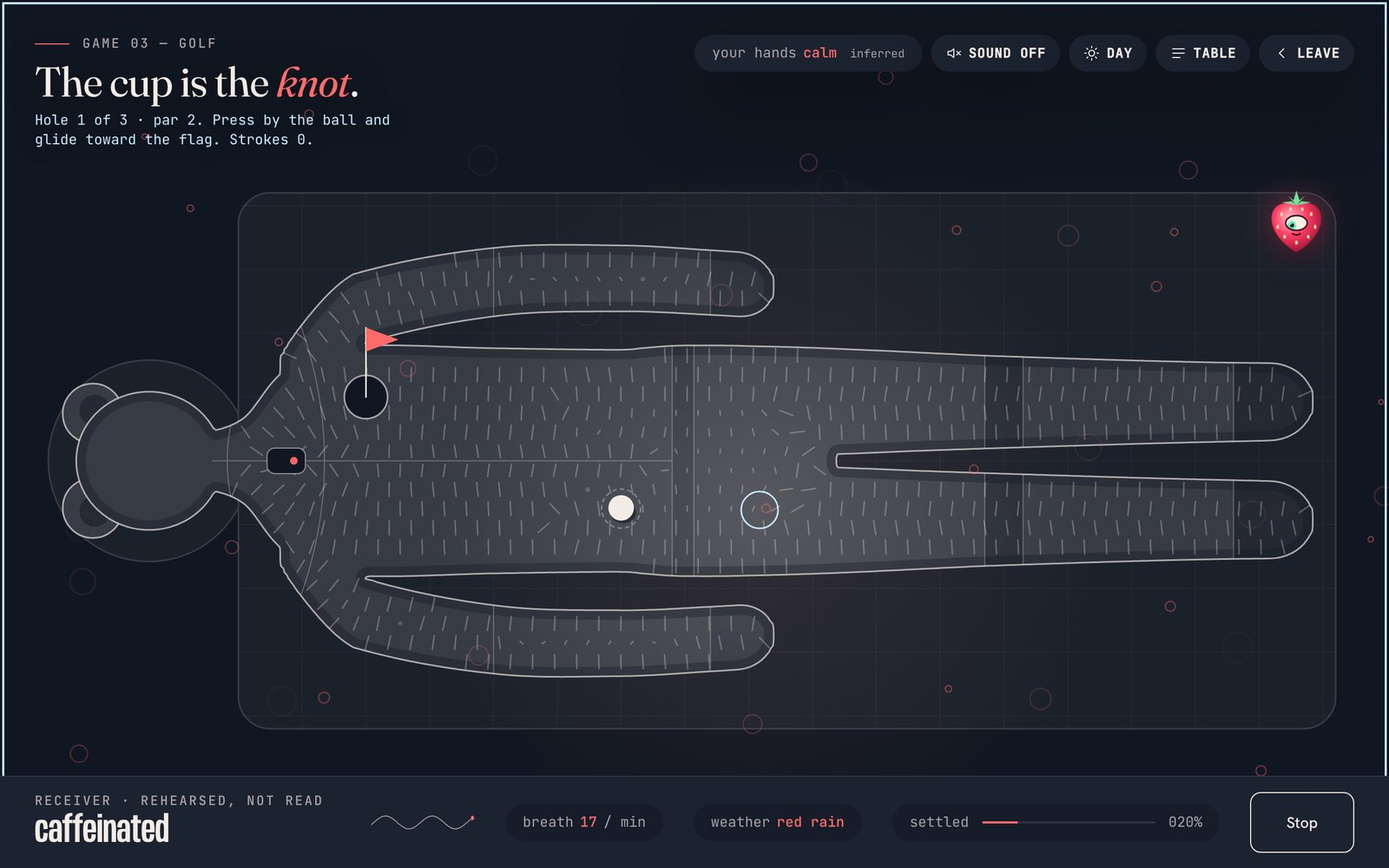
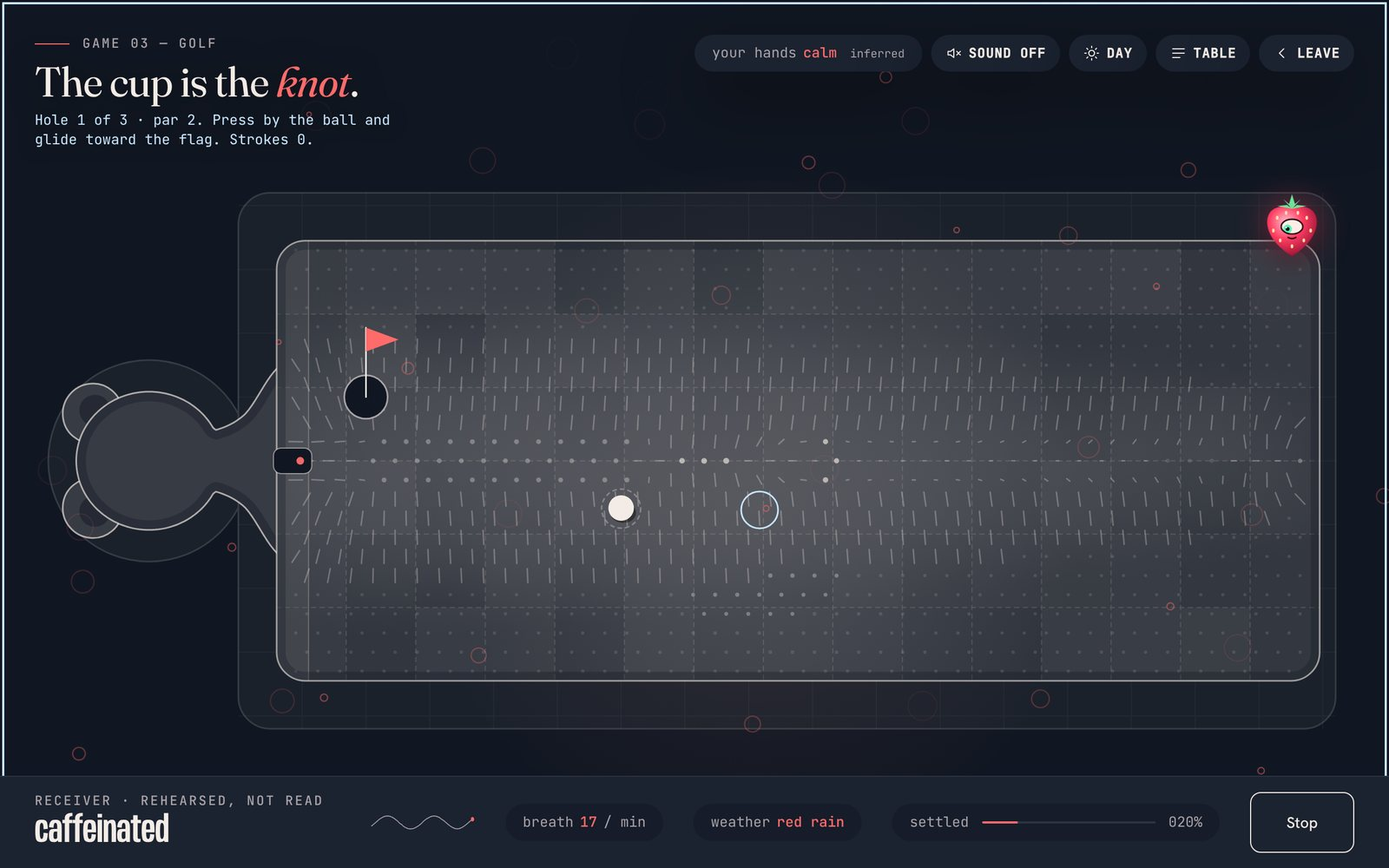
Tuck the receiver in: a hood above a quilt, and no body drawn
Five figures drew the same reaction (funky, creepy, weird, odd). What they
shared was a whole figure lying face down with an outline to get wrong. A
sixth, a tapered sleeping bag with a zip, read as a body bag and was binned
before it shipped.

The page now draws what a massage table really looks like: someone tucked in.

- All that shows of the person is a hood (with the ears that carry the
  state) and the tops of the shoulders above the hem.
- A rectangular patchwork quilt covers the rest, and is the board the games
  are played on.
- Where the person lifts it the cloth is lighter and the cells brighter. The
  rise has no edge and swells with the breath.
- The shape the games need underneath is one padded tube with a dip where
  two legs lie, which is Golf's fairway. It is never stroked.
- Cells cover the whole quilt; in Golf they lie along the slope.

Zones, golf holes, the knee limit and the Call stop move with the new shape.
All five games play through; Golf holds par 8.

Claude-Session: https://claude.ai/code/session_013Z7RfDs9vvpu4Hy9Jgp1ro

diff --git a/web/index.html b/web/index.html
@@ -242,7 +242,7 @@ $('#legend').innerHTML = SETS.map(s => `<li class="df-tag${TONE[s.id]}" data-set
 /* ---------- the receiver as a suit: a padded garment with haptic cells, never a body ---------- */
 // The page draws the thing this project is about, the suit, and no skin: flat fabric, seams, and a grid of cells.
 // body space: x runs head (-) to feet (+), y is across. Prone, so their left is +y.
-// Every part is a padded tube along x: a centre line, a half-width and a height, each a smooth curve through a few points.
+// The cover is one padded tube along x: a half-width and a height, each a smooth curve through a few points. No limbs are drawn.
 function curve(pts) {
   const n = pts.length;
   return x => {
@@ -260,22 +260,17 @@ const cap = (f, a, b, ra, rb) => x => { // a tube with round ends, like a sleeve
   if (x > b - rb) { const u = (x - b + rb) / rb; w *= Math.sqrt(1 - u * u); }
   return w;
 };
-const TORSO = { c: flat(0), w: cap(curve([[-.9, .05], [-.74, .052], [-.69, .075], [-.645, .135], [-.6, .176], [-.5, .192], [-.3, .188], [-.12, .186], [.02, .186], [.12, .186], [.3, .186]]), -.8, .2, .01, .1),
-  h: curve([[-.9, .36], [-.7, .44], [-.62, .62], [-.5, .72], [-.3, .7], [-.1, .66], [.05, .66], [.3, .64]]) };
-const LEG = { c: curve([[-.4, .093], [-.1, .093], [.0, .093], [.3, .093], [.5, .092], [.84, .092], [1, .093]]), w: cap(curve([[-.4, .093], [-.1, .093], [.1, .093], [.5, .078], [.9, .068], [1.1, .068]]), -.22, .985, .22, .068),
-  h: curve([[-.4, .64], [-.1, .64], [.2, .62], [.5, .52], [.8, .42], [1.1, .36]]) };
-const ARM = { c: curve([[-.75, .12], [-.63, .15], [-.52, .236], [-.3, .28], [-.1, .286], [.03, .28], [.2, .27]]), w: cap(curve([[-.8, .06], [-.6, .062], [-.3, .059], [0, .057], [.3, .057]]), -.635, .14, .1, .057),
-  h: curve([[-.8, .5], [-.5, .5], [-.2, .42], [.3, .32]]) };
+const BAG = { c: flat(0), w: cap(curve([[-.9, .05], [-.74, .052], [-.69, .08], [-.645, .15], [-.6, .19], [-.5, .206], [-.3, .2], [-.1, .192], [.1, .186], [.3, .172], [.5, .155], [.7, .136], [.9, .118], [1.1, .118]]), -.8, .985, .01, .11),
+  h: curve([[-.9, .36], [-.7, .44], [-.62, .6], [-.5, .72], [-.3, .7], [-.1, .66], [.2, .62], [.5, .54], [.8, .46], [1.1, .42]]) };
 function tube(p, x, y, sgn) { const w = p.w(x); if (w <= 0) return 0; const u = (y - sgn * p.c(x)) / w; return u <= -1 || u >= 1 ? 0 : p.h(x) * Math.pow(1 - u * u, 1.15); }
 function capH(x, y) {
   let q = 0, v;
   const hx = (x + .84) / .118, hy = y / .112, hu = hx * hx + hy * hy; if (hu < 1) { v = .95 * (1 - hu); q += v * v * v * v; } // the hood, face in the cradle
-  v = tube(TORSO, x, y, 0); q += v * v * v * v;
-  v = .5 * (1 - ((x - .2) * (x - .2) + y * y) / .0016); if (v > 0) q += v * v * v * v; // a gusset, so the inseam ends round
-  for (const sgn of [-1, 1]) { v = tube(LEG, x, y, sgn); q += v * v * v * v; v = tube(ARM, x, y, sgn); q += v * v * v * v; }
+  v = tube(BAG, x, y, 0); q += v * v * v * v;
   if (q <= 0) return 0;
-  let h = Math.sqrt(Math.sqrt(q)); // panels meet like padding
+  let h = Math.sqrt(Math.sqrt(q)); // hood and cover meet like padding
   if (x > -.68 && x < -.02) h -= .06 * Math.min(1, h * 3) * Math.exp(-(y * y) / .0005) * clamp((x + .68) / .06, 0, 1) * clamp((-.02 - x) / .06, 0, 1); // the zip runs in a channel
+  if (x > .08) h -= .07 * Math.min(1, h * 3) * Math.exp(-(y * y) / .0016) * clamp((x - .08) / .12, 0, 1) * clamp((.94 - x) / .1, 0, 1); // the cover dips where two legs lie under it: Golf's fairway
   return h > 0 ? h : 0;
 }
 const X0 = -1, X1 = 1, Y0 = -.48, Y1 = .48;
@@ -304,23 +299,27 @@ const SUIT = (() => { // the suit's edge, traced once from the field into closed
   }
   return path;
 })();
-// the haptic cells, on a hex grid that straddles the zip: [x, y, how much breath moves it, downhill x, downhill y]
+// The quilt: what is on the table is a person tucked in, the way a massage table really looks. Their outline is never drawn.
+const QX0 = -.64, QX1 = .995, QY = .345;
+// its haptic cells, on a hex grid over the whole quilt: [x, y, how far the person under it lifts it, how much breath moves it, downhill x, downhill y]
 const CELLS = [];
-for (let r = 0, y = -.465; y < Y1; y += .03, r++) for (let x = X0 + (r % 2 ? .0173 : 0); x < X1; x += .0346) {
-  if (capH(x, y) < .2 || hyp(x + .84, y) < .135) continue; // none on the rim, none in the hood
-  const [gx, gy] = grad(x, y); CELLS.push([x, y, Math.exp(-(((x + .3) / .28) ** 2)) * Math.exp(-((y / .22) ** 2)), -gx, -gy]);
+for (let r = 0, y = -.33; y < QY - .01; y += .03, r++) for (let x = QX0 + .03 + (r % 2 ? .0173 : 0); x < QX1 - .015; x += .0346) {
+  const h = capH(x, y), [gx, gy] = h > .02 ? grad(x, y) : [0, 0];
+  CELLS.push([x, y, clamp(h / .7, 0, 1), Math.exp(-(((x + .3) / .28) ** 2)) * Math.exp(-((y / .22) ** 2)), -gx, -gy]);
 }
+// its patches: one fixed tone each, a little lighter or darker, like a quilt sewn from the same cloth twice dyed
+const PATCH = []; { const nx = 15, ny = 6, w = (QX1 - QX0) / nx, hgt = 2 * QY / ny; let k = 7; for (let i = 0; i < nx; i++) for (let j = 0; j < ny; j++) { k = (k * 1103515245 + 12345) & 0x7fffffff; PATCH.push([QX0 + i * w, -QY + j * hgt, w, hgt, (k / 0x7fffffff) * 2 - 1]); } }
 
 /* ---------- zones on a back ---------- */
 const Z = [];
-for (const [part, x, y, r] of [['shoulder', -.59, .125, .066], ['blade', -.44, .095, .068], ['mid back', -.27, .092, .068], ['low back', -.11, .082, .066], ['hip', .07, .088, .07], ['hamstring', .3, .092, .062], ['calf', .64, .092, .056], ['sole', .9, .092, .05]]) {
+for (const [part, x, y, r] of [['shoulder', -.59, .125, .066], ['blade', -.44, .095, .068], ['mid back', -.27, .092, .068], ['low back', -.11, .082, .066], ['hip', .07, .088, .07], ['hamstring', .3, .086, .062], ['calf', .64, .076, .052], ['sole', .9, .06, .044]]) {
   Z.push({ side: 'left', part, x, y, r }); Z.push({ side: 'right', part, x, y: -y, r });
 }
 function noGo(x, y) {
   if (x > -.66 && x < 0 && Math.abs(y) < .026) return 'spine';
   if (x > -.76 && x <= -.66 && Math.abs(y) < .07) return 'neck';
   if (hyp(x + .84, y) < .12) return 'head';
-  if (Math.abs(x - .5) < .03 && Math.abs(Math.abs(y) - .092) < .075) return 'knee';
+  if (Math.abs(x - .5) < .03 && Math.abs(y) < .16) return 'knee';
   return '';
 }
 
@@ -864,7 +863,7 @@ function drawHog(h) {
 }
 
 /* ---------- 03 golf ---------- */
-const HOLES = [{ tee: [-.1, .075], cup: [-.5, -.1], par: 2 }, { tee: [-.5, .1], cup: [.64, .092], par: 3 }, { tee: [.7, -.092], cup: [.3, .092], par: 3 }];
+const HOLES = [{ tee: [-.1, .075], cup: [-.5, -.1], par: 2 }, { tee: [-.5, .1], cup: [.64, .076], par: 3 }, { tee: [.7, -.076], cup: [.3, .086], par: 3 }];
 function startGolf() { G = { kind: 'golf', h: 0, total: 0, par: HOLES.reduce((a, h) => a + h.par, 0), strokes: 0, aim: null, wait: 0, glide: [], rushed: 0 }; tee(); }
 function tee() { const h = HOLES[G.h]; G.ball = { x: h.tee[0], y: h.tee[1], vx: 0, vy: 0, moving: false, sunk: 0 }; G.strokes = 0; G.lip = false; }
 function strike() {
@@ -949,7 +948,7 @@ function drawCall() {
 
 /* ---------- lobby: the path of the adventure, drawn on the back ---------- */
 // where each game sits: the first three are the path Begin plays; Call is at the hand, Flip at the head
-const STOPS = [{ g: 'moles', x: -.5, y: -.095, wide: 'up', tall: 'right' }, { g: 'hogs', x: -.02, y: .08, wide: 'down', tall: 'left' }, { g: 'golf', x: .62, y: .092, wide: 'down', tall: 'left' }, { g: 'call', x: .075, y: -.276, wide: 'up', tall: 'right' }, { g: 'flip', x: -.84, y: 0, wide: 'up', tall: 'right' }];
+const STOPS = [{ g: 'moles', x: -.5, y: -.095, wide: 'up', tall: 'right' }, { g: 'hogs', x: -.02, y: .08, wide: 'down', tall: 'left' }, { g: 'golf', x: .62, y: .076, wide: 'down', tall: 'left' }, { g: 'call', x: .3, y: -.086, wide: 'up', tall: 'right' }, { g: 'flip', x: -.84, y: 0, wide: 'up', tall: 'right' }];
 function pathAt(u) { // 0..1 along the three stops
   const k = clamp(u, 0, .9999) * 2, i = Math.floor(k), t = k - i, a = STOPS[i], b = STOPS[i + 1], e = t * t * (3 - 2 * t);
   return [lerp(a.x, b.x, t), lerp(a.y, b.y, e)];
@@ -1036,7 +1035,7 @@ function update(dt) {
 function bodyXf() { tall ? ctx.setTransform(0, s * dpr, -s * dpr, 0, cx * dpr, cy * dpr) : ctx.setTransform(s * dpr, 0, 0, s * dpr, cx * dpr, cy * dpr); }
 function drawSuit() {
   bodyXf(); const px = 1 / s, room = clamp(.3 + .82 * ROOM, .3, 1), [lx, ly] = toB(L.x, L.y);
-  // the hood has ears, and they are the receiver's state on the figure itself: up when braced, flopped out and flat when settled
+  // the hood has ears, and they are the receiver's state on the page: up when braced, flopped when settled
   const ease = noReading() ? .45 : clamp(1 - S.read, 0, 1), flop = .6 + .5 * ease, twitch = still ? 0 : Math.max(0, Math.sin(S.t * .9) - .985) * 9;
   for (const sy of [-1, 1]) {
     const a = flop - twitch * .25, ex = -.84 - Math.cos(a) * .118, ey = sy * Math.sin(a) * .112;
@@ -1045,38 +1044,39 @@ function drawSuit() {
     ctx.fillStyle = C.fab2; ctx.beginPath(); ctx.ellipse(.006 + .012 * ease, 0, .026 - .008 * ease, .024 + .004 * ease, 0, 0, TAU); ctx.fill();
     ctx.restore();
   }
-  // cloth: one flat neutral, lighter where the lamp reaches. Flat on purpose: a garment drawing, with no modelling and no skin tone.
-  ctx.fillStyle = C.fab0; ctx.fill(SUIT); ctx.save(); ctx.clip(SUIT);
-  ctx.fillStyle = C.fab2; ctx.fillRect(-.02, -.2, .034, .4); // stretch panels, colour-blocked like a wetsuit: waistband, knee gussets, gloves, boots
-  for (const sy of [-1, 1]) { ctx.fillRect(.47, sy * .005, .06, sy * .19); ctx.fillRect(.86, sy * .005, .15, sy * .19); const c = sy * ARM.c(.04); ctx.fillRect(.04, c - .08, .13, .16); }
-  const glow = ctx.createRadialGradient(lx, ly, 0, lx, ly, .5); glow.addColorStop(0, hexA(C.fab1, .85 * room)); glow.addColorStop(1, hexA(C.fab1, 0)); ctx.fillStyle = glow; ctx.fillRect(X0, Y0, X1 - X0, Y1 - Y0);
-  ctx.strokeStyle = hexA(C.void, .34); ctx.lineWidth = .03; ctx.lineJoin = 'round'; ctx.stroke(SUIT); // a soft rim: padding, not a cut-out
-  // seams: where the panels meet. Each no-go place is a seam, so the gun's limits are part of the garment.
-  ctx.strokeStyle = hexA(C.ink, .3 * room); ctx.lineWidth = px; ctx.lineCap = 'round'; ctx.beginPath();
-  ctx.moveTo(-.74, 0); ctx.lineTo(-.02, 0); // the zip
-  ctx.moveTo(-.63, -.28); ctx.quadraticCurveTo(-.5, 0, -.63, .28); // yoke and shoulder seams
-  ctx.moveTo(-.7, -.1); ctx.quadraticCurveTo(-.735, 0, -.7, .1); // collar
-  for (const x of [-.02, .014]) { ctx.moveTo(x, -.2); ctx.lineTo(x, .2); } // waistband
-  for (const sy of [-1, 1]) {
-    for (const x of [.47, .53, .86]) { ctx.moveTo(x, sy * .005); ctx.lineTo(x, sy * .195); } // knee gusset, ankle cuff
-    for (const x of [-.3, .04]) { const c = sy * ARM.c(x); ctx.moveTo(x, c - .08); ctx.lineTo(x, c + .08); } // elbow, wrist cuff
-  }
-  ctx.stroke();
-  // cells: dim at rest, brighter under the lamp, swelling with the breath, ringing where the suit hums
-  const golf = G && G.kind === 'golf', br = still ? 0 : Math.sin(S.breath) * (.03 + .05 * (1 - S.read)), dim = new Path2D(), mid = new Path2D(), lit = new Path2D(), hum = new Path2D(), grain = new Path2D();
-  for (const [x, y, lg, sx, sy] of CELLS) {
-    const dl = (x - lx) * (x - lx) + (y - ly) * (y - ly), glow = dl < .2 ? Math.exp(-dl / .03) * room : 0; let r = .0034 * (1 + 3.2 * br * lg) + .0012 * glow, ring = 0;
-    for (const b of bumps) { const d = hyp(x - b.x, y - b.y); if (d < b.r) { const w = 1 - (d / b.r) * (d / b.r); ring = Math.max(ring, w * w * (b.a / .16) * (still ? .6 : .5 + .5 * Math.sin(46 * d - 13 * S.t))); } }
+  // all that shows of the person: a hood and the tops of the shoulders, above the quilt's hem
+  ctx.save(); ctx.beginPath(); ctx.rect(X0, Y0, QX0 + .03 - X0, Y1 - Y0); ctx.clip();
+  ctx.fillStyle = C.fab0; ctx.fill(SUIT); ctx.save(); ctx.clip(SUIT); ctx.strokeStyle = hexA(C.void, .34); ctx.lineWidth = .03; ctx.lineJoin = 'round'; ctx.stroke(SUIT); ctx.restore();
+  ctx.strokeStyle = hexA(C.ink, .7 * room); ctx.lineWidth = 1.5 * px; ctx.stroke(SUIT); ctx.restore();
+  // the quilt: a board for the games. One neutral cloth in patches, stitched.
+  const quilt = new Path2D(); if (quilt.roundRect) quilt.roundRect(QX0, -QY, QX1 - QX0, 2 * QY, .045); else quilt.rect(QX0, -QY, QX1 - QX0, 2 * QY);
+  ctx.fillStyle = C.fab0; ctx.fill(quilt); ctx.save(); ctx.clip(quilt);
+  for (const [x, y, w, h, t] of PATCH) { ctx.fillStyle = t > 0 ? hexA(C.fab1, .16 * t) : hexA(C.void, -.2 * t); ctx.fillRect(x, y, w, h); }
+  // where the person lifts it the cloth is lighter. A soft rise with no edge: there is no outline to get wrong.
+  const br = still ? 0 : Math.sin(S.breath) * (.03 + .05 * (1 - S.read));
+  for (let x = -.56; x < .93; x += .105) { const w = BAG.w(x) * 1.35, lg = Math.exp(-(((x + .3) / .28) ** 2)), a = .3 * room * (BAG.h(x) / .72) * (1 + 4 * br * lg), g = ctx.createRadialGradient(x, 0, 0, x, 0, w); g.addColorStop(0, hexA(C.fab1, a)); g.addColorStop(.55, hexA(C.fab1, a * .55)); g.addColorStop(1, hexA(C.fab1, 0)); ctx.fillStyle = g; ctx.fillRect(x - w, -w, 2 * w, 2 * w); }
+  const glow = ctx.createRadialGradient(lx, ly, 0, lx, ly, .5); glow.addColorStop(0, hexA(C.fab1, .7 * room)); glow.addColorStop(1, hexA(C.fab1, 0)); ctx.fillStyle = glow; ctx.fillRect(X0, Y0, X1 - X0, Y1 - Y0);
+  // stitching between the patches, and the hem folded back at the top
+  ctx.strokeStyle = hexA(C.ink, .16 * room); ctx.lineWidth = px; ctx.setLineDash([4 * px, 4 * px]); ctx.beginPath();
+  for (let i = 1; i < 15; i++) { const x = QX0 + i * (QX1 - QX0) / 15; ctx.moveTo(x, -QY); ctx.lineTo(x, QY); } for (let j = 1; j < 6; j++) { const y = -QY + j * 2 * QY / 6; ctx.moveTo(QX0, y); ctx.lineTo(QX1, y); }
+  ctx.stroke(); ctx.setLineDash([]);
+  ctx.fillStyle = hexA(C.fab1, .3 * room); ctx.fillRect(QX0, -QY, .05, 2 * QY); ctx.strokeStyle = hexA(C.ink, .28 * room); ctx.beginPath(); ctx.moveTo(QX0 + .05, -QY); ctx.lineTo(QX0 + .05, QY); ctx.stroke();
+  // cells: brighter where the person is, under the lamp, and with the breath; ringing where the quilt hums
+  const golf = G && G.kind === 'golf', dim = new Path2D(), mid = new Path2D(), lit = new Path2D(), hum = new Path2D(), grain = new Path2D();
+  for (const [x, y, up, lg, sx, sy] of CELLS) {
+    const dl = (x - lx) * (x - lx) + (y - ly) * (y - ly), lamp = dl < .2 ? Math.exp(-dl / .03) * room : 0, v = .5 * up + lamp; let r = .0026 + .0012 * up * (1 + 3.2 * br * lg) + .0012 * lamp, ring = 0;
+    if (up > 0) for (const b of bumps) { const d = hyp(x - b.x, y - b.y); if (d < b.r) { const w = 1 - (d / b.r) * (d / b.r); ring = Math.max(ring, w * w * (b.a / .16) * (still ? .6 : .5 + .5 * Math.sin(46 * d - 13 * S.t))); } }
     if (golf) { const m = hyp(sx, sy), len = Math.min(.011, m * .008); if (len > .002) { grain.moveTo(x - sx / m * len, y - sy / m * len); grain.lineTo(x + sx / m * len, y + sy / m * len); continue; } } // on the green the cells lie along the slope, like mown grass
-    const to = ring > .18 ? hum : glow > .55 ? lit : glow > .16 ? mid : dim; r += .0034 * ring; to.moveTo(x + r, y); to.arc(x, y, r, 0, TAU);
+    const to = ring > .18 ? hum : v > .75 ? lit : v > .3 ? mid : dim; r += .0034 * ring; to.moveTo(x + r, y); to.arc(x, y, r, 0, TAU);
   }
-  ctx.fillStyle = hexA(C.ink, .2 * room); ctx.fill(dim); ctx.fillStyle = hexA(C.ink, .4 * room); ctx.fill(mid); ctx.fillStyle = hexA(C.ink, .68 * room); ctx.fill(lit); ctx.fillStyle = hexA(C.ink, .95); ctx.fill(hum);
+  ctx.fillStyle = hexA(C.ink, .13 * room); ctx.fill(dim); ctx.fillStyle = hexA(C.ink, .34 * room); ctx.fill(mid); ctx.fillStyle = hexA(C.ink, .66 * room); ctx.fill(lit); ctx.fillStyle = hexA(C.ink, .95); ctx.fill(hum);
   if (golf) { ctx.strokeStyle = hexA(C.ink, .3 * room); ctx.lineWidth = 1.4 * px; ctx.stroke(grain); }
+  ctx.strokeStyle = hexA(C.void, .3); ctx.lineWidth = .028; ctx.lineJoin = 'round'; ctx.stroke(quilt); // a soft rim: padding, not a cut-out
   ctx.restore();
-  ctx.strokeStyle = hexA(C.ink, .7 * room); ctx.lineWidth = 1.5 * px; ctx.lineJoin = 'round'; ctx.stroke(SUIT);
-  // the pod at the nape: the one powered thing on the suit, and the only place it shows the accent
-  ctx.fillStyle = C.void; ctx.strokeStyle = hexA(C.ink, .55 * room); ctx.lineWidth = px; ctx.beginPath(); if (ctx.roundRect) ctx.roundRect(-.655, -.02, .06, .04, .012); else ctx.rect(-.655, -.02, .06, .04); ctx.fill(); ctx.stroke();
-  ctx.fillStyle = hexA(C.accent, S.stopped ? .25 : still ? .9 : .55 + .4 * Math.sin(S.t * 2.2)); ctx.beginPath(); ctx.arc(-.613, 0, .006, 0, TAU); ctx.fill();
+  ctx.strokeStyle = hexA(C.ink, .62 * room); ctx.lineWidth = 1.5 * px; ctx.lineJoin = 'round'; ctx.stroke(quilt);
+  // the pod on the hem: the one powered thing here, and the only place the quilt shows the accent
+  ctx.fillStyle = C.void; ctx.strokeStyle = hexA(C.ink, .55 * room); ctx.lineWidth = px; ctx.beginPath(); if (ctx.roundRect) ctx.roundRect(-.645, -.02, .06, .04, .012); else ctx.rect(-.645, -.02, .06, .04); ctx.fill(); ctx.stroke();
+  ctx.fillStyle = hexA(C.accent, S.stopped ? .25 : still ? .9 : .55 + .4 * Math.sin(S.t * 2.2)); ctx.beginPath(); ctx.arc(-.603, 0, .006, 0, TAU); ctx.fill();
   ctx.setTransform(dpr, 0, 0, dpr, 0, 0);
 }
 function drawTable() {
@@ -1094,7 +1094,7 @@ function drawTable() {
 function drawNoGo() { // where the gun will not run: one quiet dashed line, no hatching
   bodyXf(); const px = 1 / s; ctx.strokeStyle = hexA(C.cue, .5); ctx.lineWidth = 1.3 * px; ctx.setLineDash([3 * px, 6 * px]); ctx.lineCap = 'round'; ctx.beginPath();
   ctx.moveTo(-.75, 0); ctx.lineTo(-.03, 0);
-  for (const sy of [-1, 1]) { ctx.moveTo(.5, sy * .092 - .06); ctx.lineTo(.5, sy * .092 + .06); }
+  ctx.moveTo(.5, -.15); ctx.lineTo(.5, .15);
   ctx.stroke(); ctx.setLineDash([]); ctx.setTransform(dpr, 0, 0, dpr, 0, 0);
 }
 function drawHand() {

diff --git a/docs/tabble-games.md b/docs/tabble-games.md
@@ -25,22 +25,32 @@ The room light is new play: dim it and the back fades while lit spots stay brigh
 
 Not done: Storeybrook and Hypermetapunk. The family plan says day looks reward stillness, print looks reward impact and tempo, night looks reward a light source. That maps onto the games (Hedgehogs, Moles, Golf) and is written up as an issue, not built.
 
-## The suit (the page draws no body)
-Bleve called the first figure funky, the second (an anatomical relief in a warm light) creepy, and the third (a flat grey suit on realistic proportions) still weird. The first two drew a person. The third drew a suit on a person-shaped mannequin, which is a chalk outline with seams. The thing on the page he liked without being asked was the strawberry: a round character with one eye.
+## Tucked in (the page draws no body)
+Five figures were tried and every one drew the same reaction from Bleve:
 
-So the figure is now a character in the strawberry's family: a plush onesie.
+| Version | What it drew | Verdict |
+|---|---|---|
+| v1 | Nested capsule outlines | funky |
+| v2 to v5 | Anatomy from profile curves, lit as a warm relief with contour rings | creepy |
+| v6 | A flat grey suit with seams and cells, on realistic proportions | weird |
+| v7 | A plush onesie with ears | odd, fine for now |
+| (unshipped) | A tapered sleeping bag with a zip | a body bag; binned |
 
-- **Shape.** Still a height field seen from above, because the games need one: Golf rolls a ball down it, hedgehogs slide on it, and cues must land on it. The parts are chunky padded tubes with round ends (`TORSO`, `LEG`, `ARM`, each through `cap()`): a boxy body, fat sleeves and legs, mittens and boots, a big round hood. No shoulder blades, no glutes, no waist.
-- **Ears.** The hood has two. They are the receiver's state on the figure itself: up when braced, flopped when settled. Where there is no reading they sit in between.
-- **Cloth.** One flat neutral with a soft rim, lighter where the lamp reaches. No skin tone: the cloth is a mix of the page's two inks, so the only colour on the suit is a setting's.
-- **Seams are the limits.** Every place the gun will not run is a seam or a panel: the zip down the spine, the collar, the knee gussets. Waistband, gussets, mittens and boots are colour-blocked darker.
-- **Cells.** A hex grid of haptic cells covers the suit, none on the rim or in the hood. Dim at rest, brighter under the lamp, swelling with the breath (19 a minute tense, 7 settled), and ringing white where the suit hums. In Golf the cells lie along the slope like mown grass, so the green can be read.
-- **Pod.** A small unit at the nape with one light: the only place the suit shows the page's accent. It dims when Stop is pressed.
-- **The strawberry mirrors it.** The guardian's eye closes as the receiver settles, so the giver can read the state without looking down at the word.
+What they shared was a whole figure lying face down, seen from above, with an outline to get wrong. So the outline is gone. The page draws what a massage table really looks like: someone tucked in.
 
-Rule: do not draw skin or anatomy here. Draw the garment, the table, the cues and the creatures.
+- **A hood and a quilt.** All that shows of the person is a hood and the tops of the shoulders above the quilt's hem. Everything else is a rectangular patchwork quilt, which is also the board the games are played on.
+- **A soft rise.** Where the person lifts the quilt the cloth is lighter and the cells are brighter. It has no edge. The rise swells with the breath.
+- **The shape underneath.** The games still need one: Golf rolls a ball down it, hedgehogs walk on it, and cues must land on it. It is a single padded tube (`BAG`) with a dip down the lower half where two legs lie, which is Golf's fairway. It is never stroked.
+- **Ears.** The hood has two. They are the receiver's state on the page: up when braced, flopped when settled, in between where there is no reading.
+- **Cloth.** One neutral in patches a little lighter or darker, stitched. No skin tone: the cloth is a mix of the page's two inks, so the only colour on the quilt is a setting's.
+- **Cells.** A hex grid of haptic cells covers the whole quilt. Brighter where the person is and under the lamp, and ringing white where the quilt hums. In Golf the cells lie along the slope like mown grass, so the green can be read.
+- **Limits.** The gun's limits are drawn only in the games that use the gun: a dashed line down the spine and a bar behind the knees.
+- **Pod.** A small unit on the hem with one light: the only place the quilt shows the page's accent. It dims when Stop is pressed.
+- **The strawberry mirrors the receiver.** The guardian's eye closes as the receiver settles, so the giver can read the state without looking down at the word.
 
-The outline is traced once at load into a single path (`SUIT`), so there is no per-frame relief.
+Rule: do not draw a body here. No skin, no anatomy, no outline of a person.
+
+The hood and shoulders are traced once at load into a path (`SUIT`) and shown only above the hem.
 
 ## The receiver's state
 Inferred, labelled inferred, with a confidence figure that dips after every event. Words in order: braced, caffeinated, still, curious, arriving, calm, puddle. The word's width is the state. "Leans" is the inferred preference; matching it settles the receiver about 40% more, and it drifts every 8–12 s.

diff --git a/README.md b/README.md
@@ -4,13 +4,13 @@ One lays on the table and the other… plays.
 
 Maesage is a haptic suit and a partner touch game. The suit lights a spot and hums under it; the player answers with hands or a massage gun; the gun tunes itself by hovering. This repo holds the playable browser studies, the server that links two screens, and the plans.
 
-![The lobby: a plush suit on a table, five games placed on it, and the strawberry guardian](docs/img/lobby.jpg)
+![The lobby: someone tucked in under a quilt on the table, five games placed on it, and the strawberry guardian](docs/img/lobby.jpg)
 
 | Moles: hover a lit spot and the gun tunes itself | Golf: the cells lie along the slope |
 |---|---|
 | ![Moles](docs/img/moles.jpg) | ![Golf](docs/img/golf.jpg) |
 
-The figure is the suit, never a body: a padded onesie with haptic cells. Its ears and the strawberry's eye both follow the receiver, from braced to puddle:
+No body is drawn. The receiver is tucked in under a quilt of haptic cells, and the quilt is the board the games are played on. The hood's ears and the strawberry's eye both follow the receiver, from braced to puddle:
 
 ![Braced, arriving, puddle: the ears flop and the strawberry dozes](docs/img/states.jpg)
 
@@ -63,7 +63,7 @@ The page is built on Depthfield, the night half of the toolkit family: its token
 - The receiver's state word is the page's one stretch line: its width is how settled they are.
 - The lamp follows the hand and the room light dims what only reflects. Lit spots keep their own light.
 - The strawberry guardian reviews in one dry line and can be thrown at a stop to start it. Its eye closes as the receiver settles.
-- The figure is the suit, not a person: no skin, no anatomy. Its hood has ears, up when the receiver is braced and flopped when they are a puddle.
+- No body is drawn: no skin, no anatomy, no outline. A hood shows above a quilt, and the cloth is lighter where the person lifts it. The hood has ears, up when the receiver is braced and flopped when they are a puddle.
 - A rehearsed state says "rehearsed", a guess says "inferred", a reading says what it read.
 
 Check a change with Taste before anyone reviews it: open the page with `?df-taste`, at desktop and phone width, in night, day and high contrast. It is clean today.

diff --git a/CONTRIBUTING.md b/CONTRIBUTING.md
@@ -29,7 +29,7 @@ These are not style preferences. A change that breaks one will be asked to chang
 - **Say what is known.** A rehearsed state says "rehearsed", a guess says "inferred", a reading says what it read and how sure it is. Where nothing is reading the receiver, the page says so and shows no figure.
 - **Never points.** The score is the receiver settling.
 - **The gun has limits.** It cuts out over the spine, neck, head and the backs of the knees, and the receiver's ceiling caps it.
-- **No skin, no anatomy.** The figure is the suit. Draw the garment, the table, the cues and the creatures.
+- **No body.** The receiver is a hood above a quilt. Do not draw skin, anatomy or an outline of a person; draw the quilt, the table, the cues and the creatures. Five figures were tried before this (see `docs/tabble-games.md`).
 - **Colour is a setting.** Each setting also has a glyph, so colour never carries meaning alone.
 - **Nothing from another screen is trusted.** Presence is clamped and re-checked; no markup comes off the wire.
 
